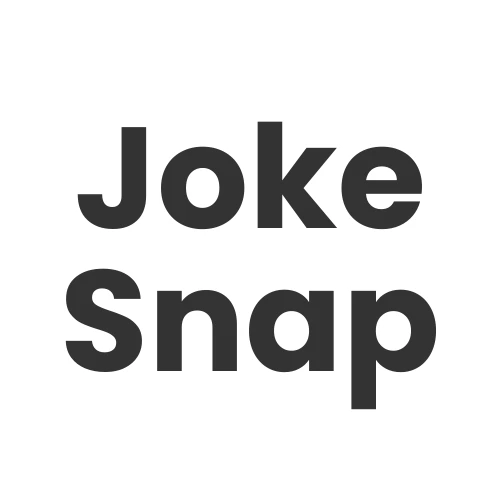
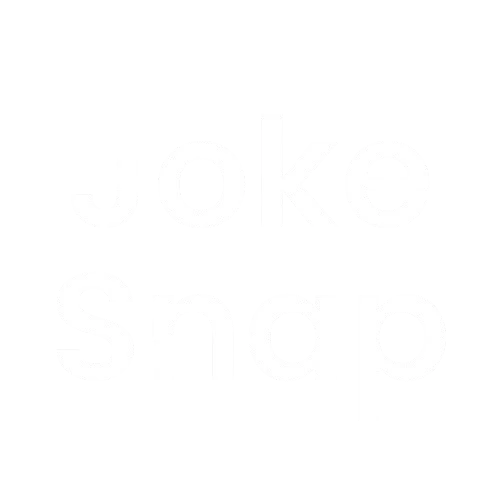
Major design changes.
- New background
- Transparent images
- Removed circle
- Small text changes
- Reduce horizontal line opacity

Changed region(s): [[0.12, 0.54, 0.87, 0.84], [0.15, 0.24, 0.87, 0.48]]

diff --git a/css/style.css b/css/style.css
@@ -2,7 +2,7 @@ html {
   box-sizing: border-box;
   font-size: 100%;
   scrollbar-width: thin;
-  scrollbar-color: white transparent;
+  scrollbar-color: rgba(65, 67, 69, 1) rgba(35, 37, 38, 1);
 }
 
 *,
@@ -19,12 +19,31 @@ img {
 
 body {
   font-family: "Montserrat", Arial;
-  background-color: #333333;
+  background: rgb(35, 37, 38);
+  background: linear-gradient(
+    360deg,
+    rgba(35, 37, 38, 1) 0%,
+    rgba(65, 67, 69, 1) 35%
+  );
   color: white;
   margin: 0;
 }
 
-.circle-container {
+body::-webkit-scrollbar {
+  width: 12px;
+}
+
+body::-webkit-scrollbar-track {
+  background: rgba(35, 37, 38, 1);
+}
+
+body::-webkit-scrollbar-thumb {
+  background-color: rgba(65, 67, 69, 1);
+  border-radius: 10px;
+  border: 3px solid rgba(35, 37, 38, 1);
+}
+
+.triangle-container {
   display: flex;
   justify-content: center;
   align-items: center;
@@ -32,24 +51,12 @@ body {
   margin-top: 20px;
 }
 
-.circle {
-  width: 180px;
-  height: 180px;
-  border: 5px solid white;
-  border-radius: 50%;
-  display: flex;
-  justify-content: center;
-  align-items: center;
-  line-height: 1;
-  animation: zoomIn 1s ease-out;
-}
-
 .triangle {
   width: 0;
   height: 0;
-  border-left: 50px solid transparent;
-  border-right: 50px solid transparent;
-  border-bottom: 90px solid white;
+  border-left: 70px solid transparent !important;
+  border-right: 70px solid transparent !important;
+  border-bottom: 130px solid white !important;
   animation: zoomIn 1s ease-out;
 }
 
@@ -68,23 +75,16 @@ img {
 }
 
 img:hover {
-  filter: brightness(0.65);
+  filter: brightness(0.6);
 }
 
 img:active {
-  filter: brightness(0.45);
-}
-
-a {
-  text-decoration: none;
-  color: white;
+  filter: brightness(0.4);
 }
 
 hr {
   width: 320px;
-  opacity: 0.4;
-  margin-top: 20px;
-  margin-bottom: 20px;
+  opacity: 0.3;
   animation: slideIn 1s ease-out;
 }
 
@@ -98,11 +98,11 @@ p {
 
 #linkButton:link,
 #linkButton:visited {
-  border: 1px solid white;
+  border: 2px solid white;
   border-radius: 5px;
   color: white;
   text-decoration: none;
-  padding: 7px 21px;
+  padding: 8px 24px;
 }
 
 #linkButton:hover {
@@ -159,14 +159,10 @@ p {
 }
 
 @media (max-width: 399px) {
-  .circle {
-    width: 100px;
-    height: 100px;
-  }
   .triangle {
-    border-left: 25px solid transparent;
-    border-right: 25px solid transparent;
-    border-bottom: 45px solid white;
+    border-left: 20px solid transparent;
+    border-right: 20px solid transparent;
+    border-bottom: 36px solid white;
   }
   .image-links-container img {
     width: 24px;
@@ -181,14 +177,10 @@ p {
 }
 
 @media (min-width: 400px) and (max-width: 600px) {
-  .circle {
-    width: 120px;
-    height: 120px;
-  }
   .triangle {
     border-left: 30px solid transparent;
     border-right: 30px solid transparent;
-    border-bottom: 60px solid white;
+    border-bottom: 54px solid white;
   }
   .image-links-container img {
     width: 32px;
@@ -206,14 +198,10 @@ p {
 }
 
 @media (min-width: 601px) and (max-width: 768px) {
-  .circle {
-    width: 140px;
-    height: 140px;
-  }
   .triangle {
-    border-left: 35px solid transparent;
-    border-right: 35px solid transparent;
-    border-bottom: 70px solid white;
+    border-left: 40px solid transparent;
+    border-right: 40px solid transparent;
+    border-bottom: 72px solid white;
   }
   .image-links-container img {
     width: 36px;
@@ -228,14 +216,10 @@ p {
 }
 
 @media (min-width: 769px) and (max-width: 1024px) {
-  .circle {
-    width: 150px;
-    height: 150px;
-  }
   .triangle {
-    border-left: 40px solid transparent;
-    border-right: 40px solid transparent;
-    border-bottom: 80px solid white;
+    border-left: 50px solid transparent;
+    border-right: 50px solid transparent;
+    border-bottom: 90px solid white;
   }
   .image-links-container img {
     width: 40px;
@@ -250,14 +234,10 @@ p {
 }
 
 @media (min-width: 1025px) and (max-width: 1440px) {
-  .circle {
-    width: 180px;
-    height: 180px;
-  }
   .triangle {
-    border-left: 50px solid transparent;
-    border-right: 50px solid transparent;
-    border-bottom: 90px solid white;
+    border-left: 60px solid transparent;
+    border-right: 60px solid transparent;
+    border-bottom: 108px solid white;
   }
   .image-links-container img {
     width: 48px;
@@ -272,14 +252,10 @@ p {
 }
 
 @media (min-width: 1441px) {
-  .circle {
-    width: 200px;
-    height: 200px;
-  }
   .triangle {
-    border-left: 55px solid transparent;
-    border-right: 55px solid transparent;
-    border-bottom: 100px solid white;
+    border-left: 70px solid transparent;
+    border-right: 70px solid transparent;
+    border-bottom: 126px solid white;
   }
   .image-links-container img {
     width: 56px;

diff --git a/index.html b/index.html
@@ -3,7 +3,7 @@
   <head>
     <meta charset="UTF-8" />
     <meta name="viewport" content="width=device-width,initial-scale=1" />
-    <title>Hugo Adona</title>
+    <title>Hugo Adona • Portfolio</title>
     <link rel="preconnect" href="https://fonts.googleapis.com" />
     <link rel="preconnect" href="https://fonts.gstatic.com" crossorigin />
     <link
@@ -15,8 +15,7 @@
   </head>
   <body>
     <header>
-      <div class="circle-container">
-        <div class="circle">
+      <div class="triangle-container">
           <span class="triangle"></span>
         </div>
       </div>
@@ -37,7 +36,7 @@
       </section>
      <hr />
       <section>
-        <h3>Featured Projects</h3>
+        <h3>Featured</h3>
         <div class="image-links-container">
           <a href="https://doodle-dash-web.vercel.app/"
             ><img
@@ -45,28 +44,29 @@
               alt="Image of Hugo Adona's DoodleDash app"
               style="width: 360px; height: 360px"
             />
-            <p>DoodleDash</p></a
+            </a
           ><a href="https://memo-flash.vercel.app/"
             ><img
               src="css/img/MemoFlash.webp"
               alt="Image of Hugo Adona's MemoFlash app"
               style="width: 360px; height: 360px"
             />
-            <p>MemoFlash</p></a
+            </a
           ><br /><a href="https://joke-snap.vercel.app/"
             ><img
               src="css/img/JokeSnap.webp"
               alt="Image of Hugo Adona's JokeSnap app"
               style="width: 360px; height: 360px"
             />
-            <p>JokeSnap</p></a
-          >
-          <br />
-          <a
-            id="linkButton"
-            href="https://github.com/HugoAdona?tab=repositories"
-            >More Projects</a
-          >
+            </a
+          ><a href="https://github.com/HugoAdona?tab=repositories"
+          ><img
+            src="css/img/More.webp"
+            alt="Image of Hugo Adona's More image"
+            style="width: 360px; height: 360px"
+          />
+          </a
+        >
         </div>
       </section>
     </main>
